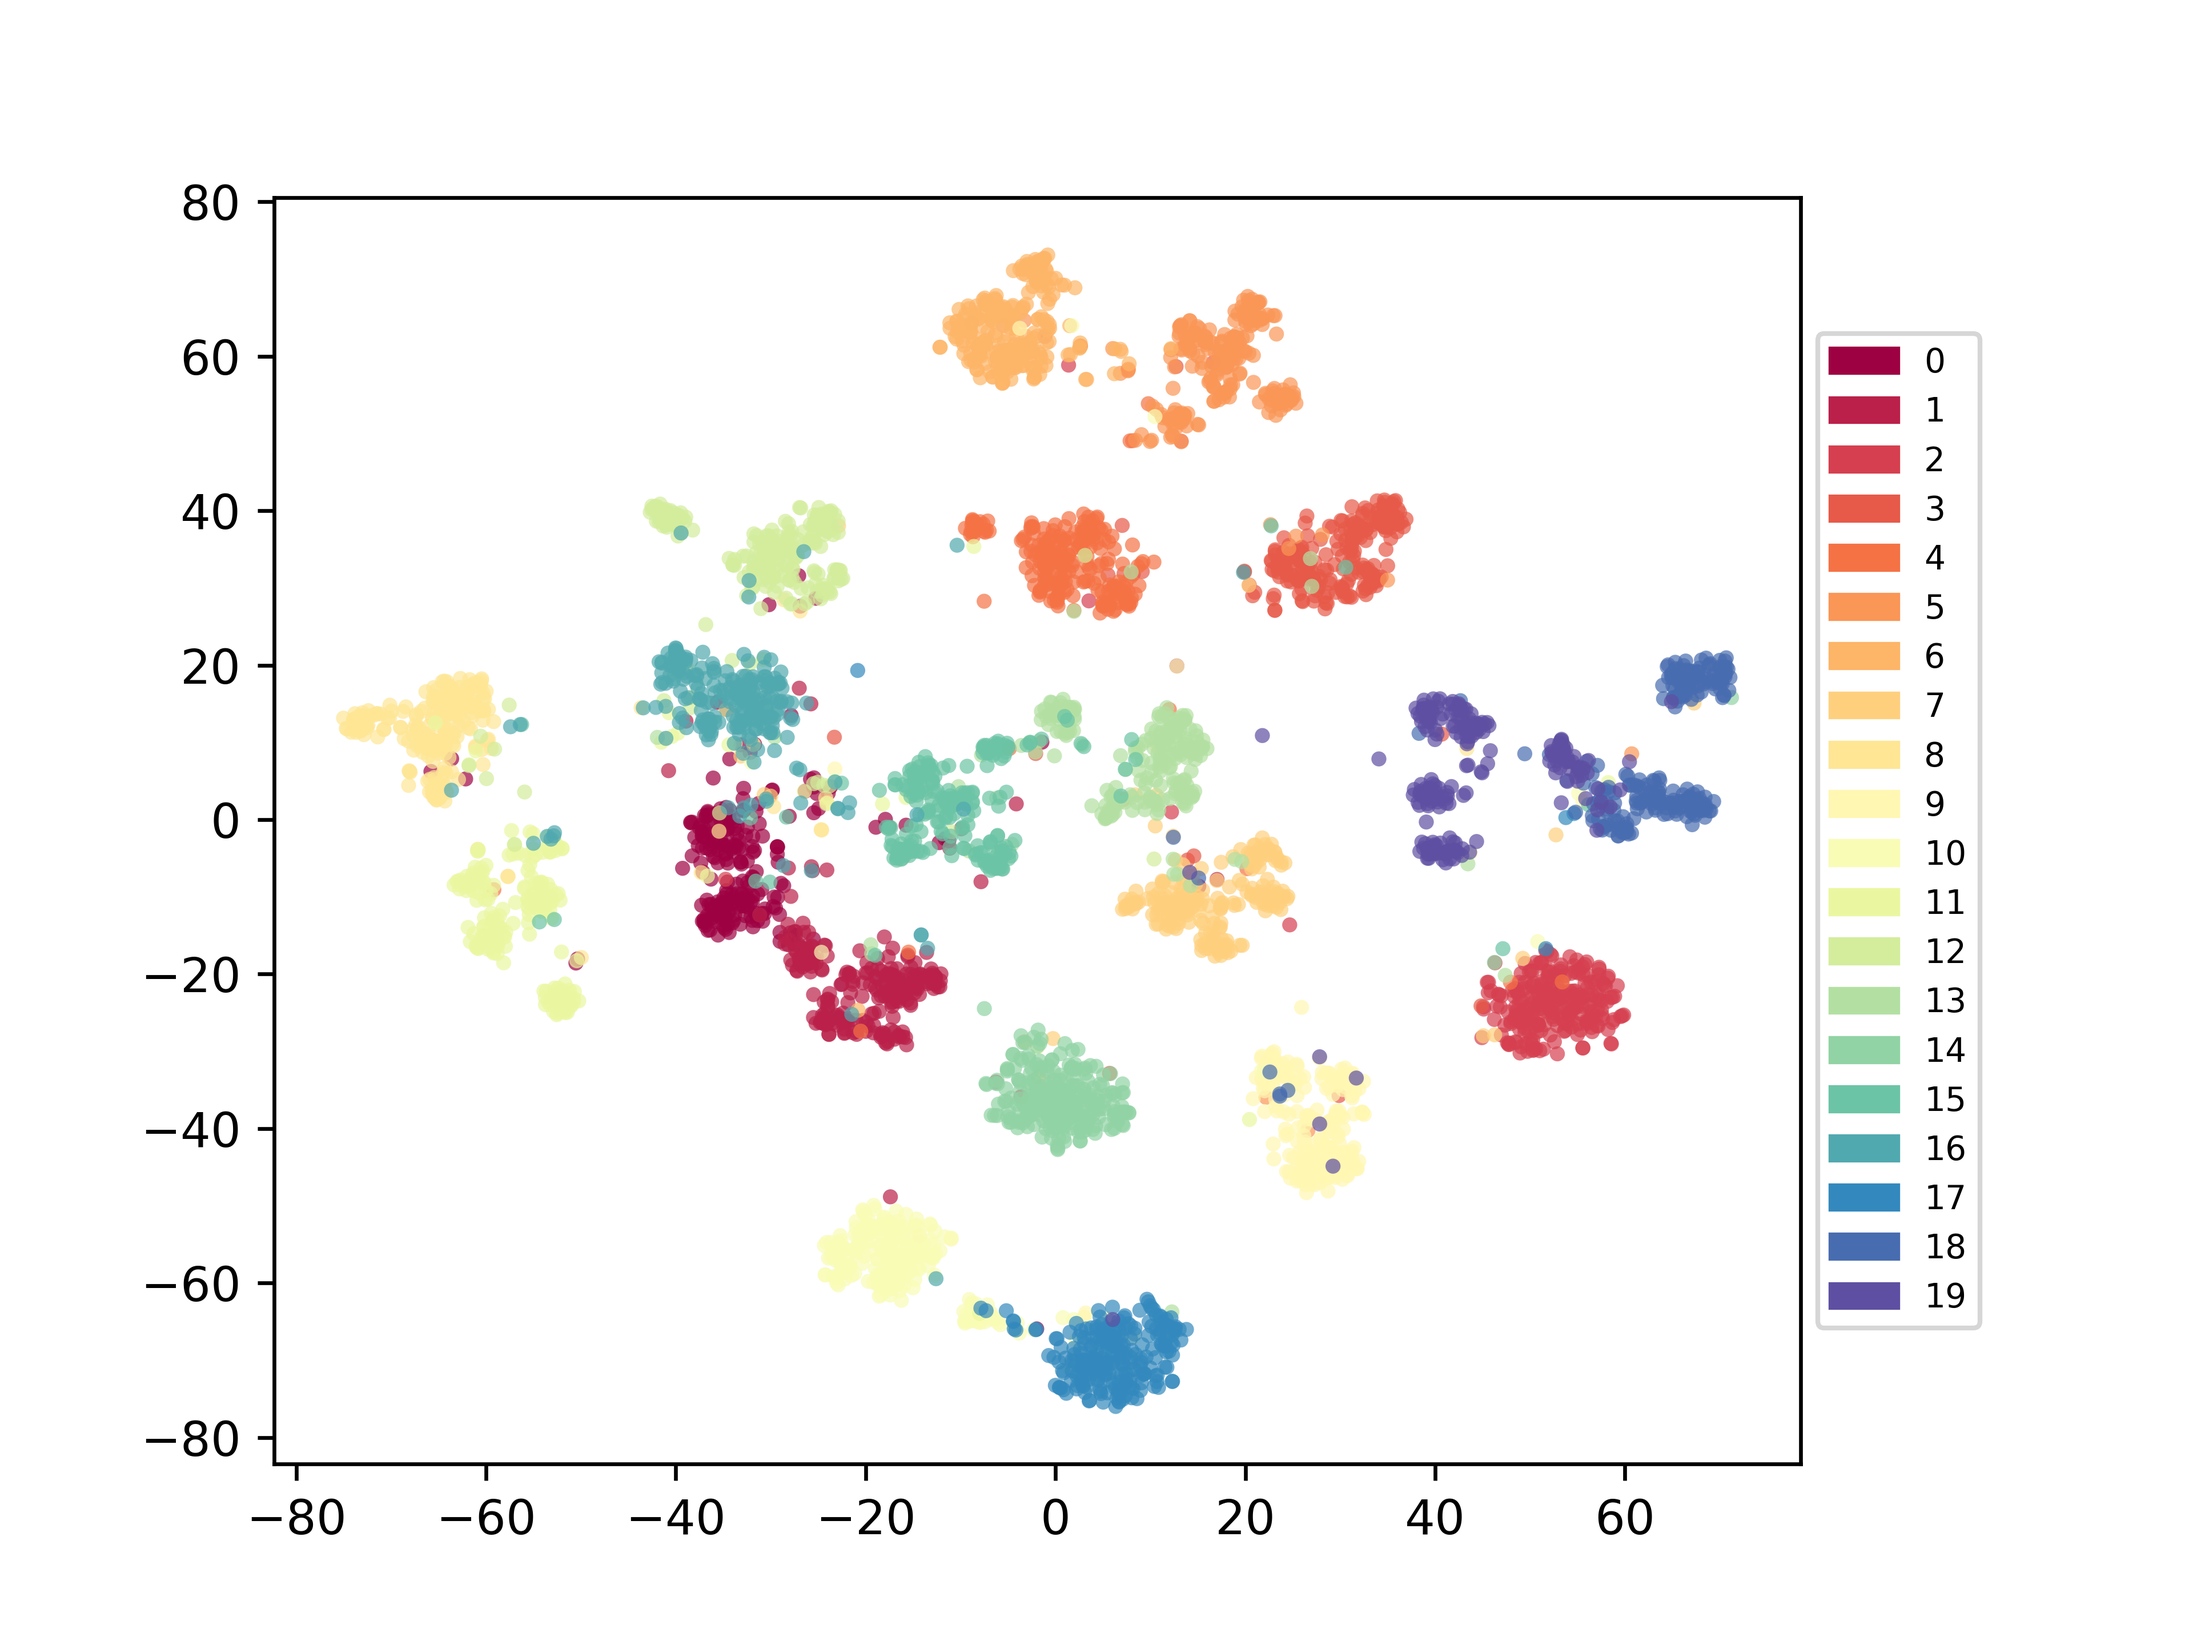
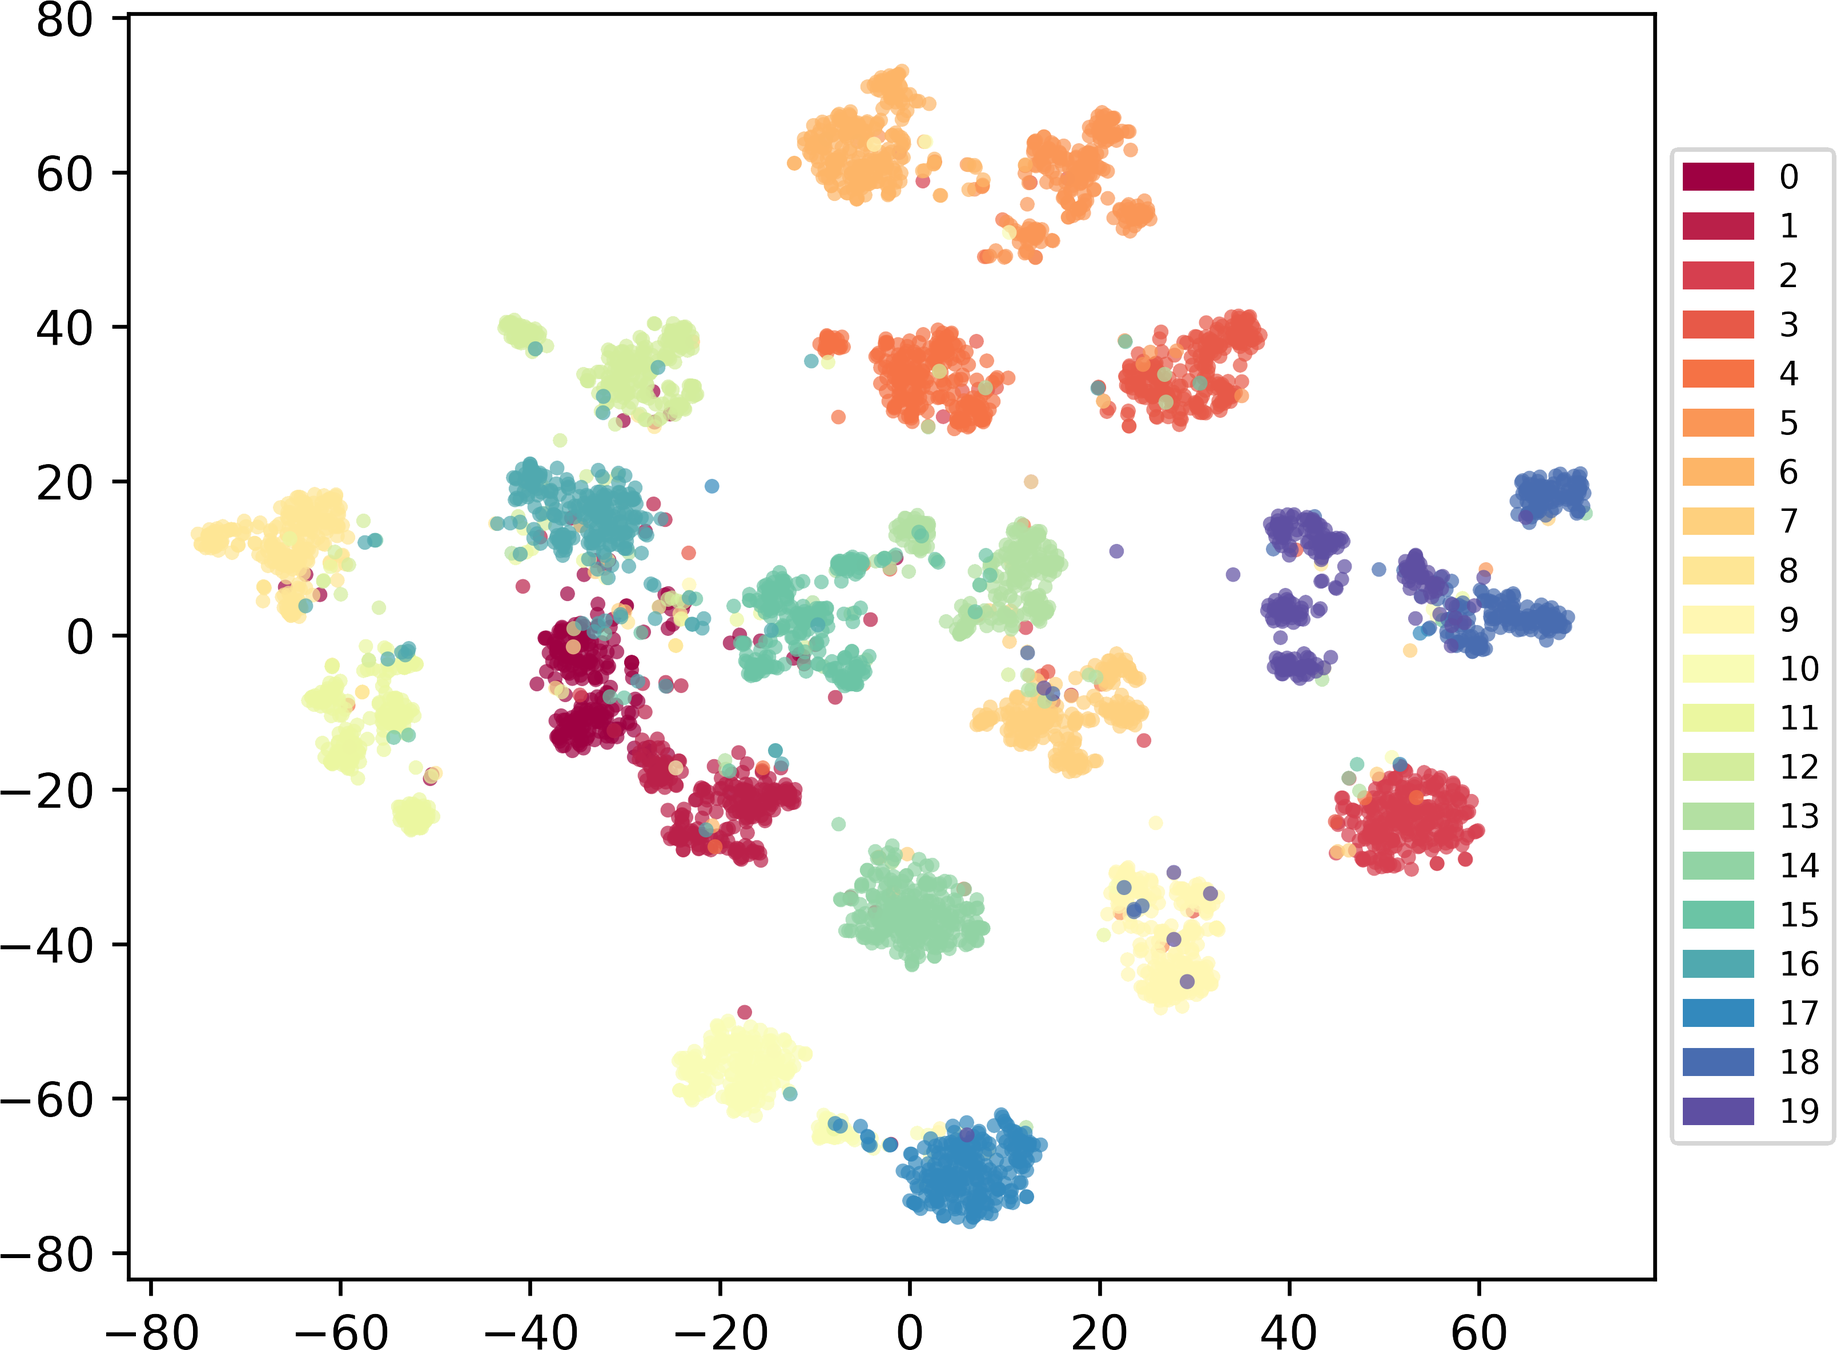
visualize

diff --git a/dataset.py b/dataset.py
@@ -176,4 +176,3 @@ if __name__ == "__main__":
     for img, label in dataloader:
         print(img.shape, label)
 
-# vim: ts=4 sw=4 sts=4 expandtab

diff --git a/README.md b/README.md
@@ -1,1 +1,55 @@
-# AI2
+# Image classification on CIFAR
+
+Several attempts on CIFAR using pytorch
+
+## Requirements
+
+* python3.7
+* pytorch1.6.0+cu101
+* ......
+
+See requirements.txt for more details.
+
+## Models
+
+We provide several alternative models including Resnet, WideResnet and Multi-WideResnet. Multi-WideResnet  is similar to FPN by concatenating the features from all layers, which may slightly improve the performance of baseline models.
+
+## Training and Evaluation
+
+For training WideResnet40-10, using 
+
+```
+bash train_wide_resnet.sh
+```
+
+For evaluation, using
+
+```
+bash eval.sh
+```
+
+## Results
+
+The models are trained with 200 epoch and 0.2 learning rate decay ratio of 60, 120, 160 epoch. For pretrained models on ImageNet, traing process is set to 30 epoch with 0.001 lr. Top1 and Top5 are provided.
+
+* Top1 and Top5 accuracy:
+
+![acc](img\T1_T5acc.png)
+
+	Pretrained, A BIG WIN!
+
+* Loss and accuracy curves:
+
+![loss](img\loss.png)
+
+![acc](img\acc.png)
+
+* Visualization with t-SNE
+
+  Training dataset
+
+<img src="img\trainfig_tsne.png" alt="trainfig_tsne" style="zoom: 25%;" />
+
+		Validation dataset:
+
+![evalfig_tsne](img\evalfig_tsne.png)
